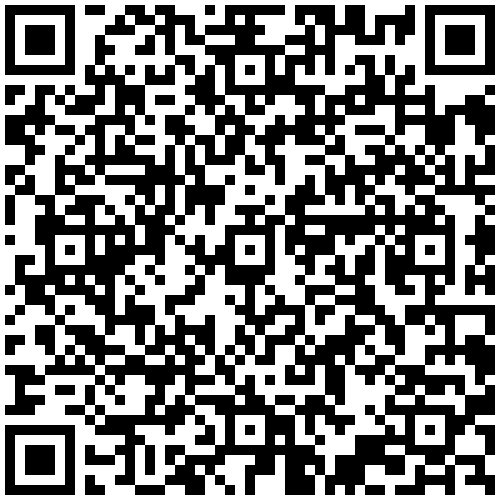
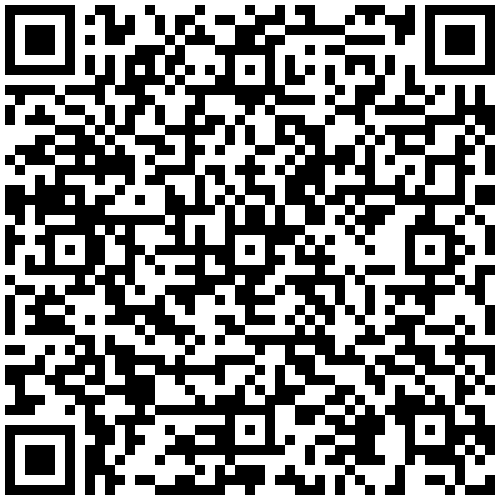
Added: Ads, Donation Page and PopUp for Donations.

diff --git a/components/PopupModalDonation.tsx b/components/PopupModalDonation.tsx
@@ -1,24 +1,29 @@
 'use client';
 
 import { useEffect, useState } from 'react';
+import Button from "./btn";
 
-import Card from './card';
+import DonationIcon from "../assets/donation-icon-black.svg"
+import Image from 'next/image';
 
 const PopupModalDonation = () => {
   const [isVisible, setIsVisible] = useState(false);
-  const [hasBeenClosed, setHasBeenClosed] = useState(false);
 
   useEffect(() => {
-    if (!hasBeenClosed) {
+    // Busca a informação no localstorage e verifica se o modal já foi exibido anteriormente
+    const hasSeenModal = localStorage.getItem('hasSeenDonationModal');
+
+    if (!hasSeenModal) {
       const timer = setTimeout(() => {
         setIsVisible(true);
-      }, 500); // Exibe o modal após 5 segundos
+      }, 10000); // Modal in 10s
 
       return () => clearTimeout(timer);
     }
-  }, [hasBeenClosed]);
+  }, []);
 
   useEffect(() => {
+    // Adiciona ou remove a classe para impedir o scroll quando o modal está visível
     if (isVisible) {
       document.body.classList.add('overflow-hidden');
     } else {
@@ -32,33 +37,33 @@ const PopupModalDonation = () => {
 
   const handleClose = () => {
     setIsVisible(false);
-    setHasBeenClosed(true);
+    localStorage.setItem('hasSeenDonationModal', 'true'); // Armazena no localstorage se o modal já foi exibido
   };
 
   return (
     <>
       {isVisible && (
-        <div
-          className="fixed inset-0 z-50 flex items-center justify-center transition-opacity duration-300 bg-black/80"
-        >
-          <div
-            className="bg-white p-6 rounded-xl shadow-lg relative w-11/12 max-w-md transform transition-transform bg duration-300 starting:scale-0"
-          >
-            <button
+        <div className="fixed inset-0 z-50 flex items-center justify-center transition-opacity duration-300 bg-black/80">
+          <div className="bg-white p-6 rounded-xl shadow-lg relative w-11/12 max-w-md transform transition-transform bg duration-300 starting:scale-0">
+          <button
               onClick={handleClose}
-              className="absolute top-2 right-2 text-gray-500 hover:text-gray-700 text-xl cursor-pointer"
+              className="absolute top-0 right-2 text-gray-500 hover:text-gray-700 text-4xl cursor-pointer"
               aria-label="Fechar modal"
             >
               &times;
             </button>
-            <h2 className="text-xl font-semibold mb-4">Gostando do nosso aplicativo? </h2>
-            <p>Considere apoiar o desenvolvimento com uma doação. Cada contribuição ajuda a manter o projeto vivo!</p>
-            <Card
-            cor='bg-pink-500'
-            titulo='Fazer doação!'
-            texto='Apoie o criador dessa ferramenta!'
-            namebtn='Doar!'
-            href=''/>
+            <div className='flex justify-center'>
+              <Image width={128} alt="Icone de doação" src={DonationIcon}/>
+            </div>
+            <div className='mt-4 mb-4'>
+              <h2 className="text-xl font-semibold mb-4">Gostando do nosso aplicativo?</h2>
+              <p className='text-justify'>
+                Considere apoiar o desenvolvimento com uma doação. Cada contribuição ajuda a manter o projeto vivo! <br/><br/> Você pode enviar através do Qr Code ou Pix Copia e Cola.
+              </p>
+            </div>
+            <div onClick={handleClose}>
+              <Button cor='bg-cyan-600' name='Fazer doação!' page='/donation'/>
+            </div>
           </div>
         </div>
       )}

diff --git a/app/inicio/page.tsx b/app/inicio/page.tsx
@@ -6,16 +6,25 @@ import Card from "../../components/card"
 export default function Home() {
   return (
     <div className="flex flex-col justify-center mb-20">
-{/* Popup de informações */}
+{/* Anuncios */}
+      <div className="bg-gray-700 p-4 m-2 h-36 rounded-xl">
+        <h1 className='text-[20px] font-semibold text-white'>Google Adsense</h1>
+        <script async src="https://pagead2.googlesyndication.com/pagead/js/adsbygoogle.js?client=ca-pub-8817598114486469" crossOrigin="anonymous"></script>
+      </div>
+{/* Anuncios */}
+
       <div className='flex flex-col gap-4 m-2 p-4 bg-zinc-800 rounded-xl'>
         <div className='flex flex-col gap-2'>
           <h1 className='text-[20px] font-semibold text-white'>Raiolaranja : Seu companheiro nas corridas!</h1>
-          <p className='text-zinc-500 text-start'>Desenvolvi esse app para ajudar a todos os corredores que desejam planejar melhor seus treinos, seja na esteira ou na rua.</p>
-          <p className='text-zinc-500 text-start'>Clique no botão abaixo e fale diretamente comigo no Instagram!</p>
+          <p className='text-zinc-400 text-start'>Desenvolvi esse app para ajudar a todos os corredores que desejam planejar melhor seus treinos, seja na esteira ou na rua.</p>
+          <p className='text-zinc-400 text-start'>Clique no botão abaixo e fale diretamente comigo no Instagram!</p>
         </div>
         <Button cor='bg-orange-500' name='Instagram' page='https://www.instagram.com/raiolaranja/' />
       </div>
 
+      <p className='flex justify-center text-white font-bold'>O O O</p>
+
+      <Card cor='bg-red-500' titulo='Está gostando do App?' texto='Considere apoiar o desenvolvimento com uma doação. Cada contribuição ajuda a manter o projeto vivo! Você pode enviar através do Qr Code ou Pix Copia e Cola.' namebtn='Ajudar!' href='donation'/>
       <Card cor='bg-red-500' titulo='Essa é para você que corre na esteira!' texto='Digite seu pace e veja qual é a velocidade correspondente em KM/H. Assim você consegue colocar a velocidade correta na sua esteira.' namebtn='Eu corro na esteira!' href='conversoes/pace-para-kmh'/>
       <Card cor='bg-red-500' titulo='Perguntas frequentes' texto='Se você tem dúvidas sobre como utilizar as ferramentas clique no botão abaixo e será redirecionado para o FAQ.' namebtn='FAQ' href='/sobre'/>
     </div>

diff --git a/app/donation/page.tsx b/app/donation/page.tsx
@@ -1,0 +1,39 @@
+"use client"
+import Image from "next/image";
+import QrCode from "../../assets/DonationPix.png";
+import DonationIcon from "../../assets/donation-icon-white.svg";
+
+export default function Donation() {
+
+    return(
+        <div className="flex flex-col justify-center mb-20">
+            <div className='flex flex-col justify-center m-2 p-4 bg-zinc-800 rounded-xl'>
+                <div className='flex justify-center m-4'>
+                    <Image width={64} alt="Icone de doação" src={DonationIcon}/>
+                </div>
+                <h1 className="text-[20px] font-semibold text-white text-center">Bem vindo a página de doação!</h1>
+            </div>
+            <div className='flex flex-col justify-center gap-2 m-2 p-4 bg-zinc-800 rounded-xl text-neutral-400'>
+                <h1 className="text-[20px] font-semibold text-white">Pix Copia e Cola</h1>
+                <p className="text-zinc-400 font-semibold">
+                    1- Copie a chave do PIX abaixo. <br/>
+                    2- Acesse o aplicativo do seu banco. <br/>
+                    3- Procure por PIX ou Transferência Via PIX. <br/>
+                    4- Escolha o valor que desejar. <br/>
+                    5- Cole a chave e faça sua doação! 
+                </p>
+                <p className="text-2xl p-2 text-center text-orange-600 bg-stone-900 rounded">c5c09f23-1eb6-4558-8586-6a34af088e32</p>
+                <h1 className="text-[20px] font-semibold text-white text-center">Muito obrigado por nos apoiar!</h1>
+            </div>
+            <div className='flex flex-col justify-center gap-4 m-2 p-4 bg-zinc-800 rounded-xl'>
+                <h1 className="text-[20px] font-semibold text-white">Pix via QR CODE</h1>
+                <p className="text-zinc-400 font-semibold">
+                    Abra o aplicativo do seu banco e utilize a câmera para fazer a leitura do Pix Qr Code.
+                </p>
+                <div className="flex justify-center">
+                    <Image className="rounded" width={250} alt="pix qr code" src={QrCode}></Image>
+                </div>
+            </div>
+        </div>
+    )
+}

diff --git a/app/calculadoras/distancia-estimada/page.tsx b/app/calculadoras/distancia-estimada/page.tsx
@@ -52,7 +52,7 @@ export default function EstimatedDistanceCalculator() {
             <input
               type="number"
               value={hours}
-              onChange={(e) => {const val = e.target.value.replace(/\D/g, '') // remove não números
+              onChange={(e) => {const val = e.target.value.replace(/\D/g, '')
                 if (val.length <= 2) setHours(val)}}
               className="w-full p-2 border rounded-md"
               placeholder="0"
@@ -64,7 +64,7 @@ export default function EstimatedDistanceCalculator() {
             <input
               type="number"
               value={minutes}
-              onChange={(e) => {const val = e.target.value.replace(/\D/g, '') // remove não números
+              onChange={(e) => {const val = e.target.value.replace(/\D/g, '')
                 if (val.length <= 2) setMinutes(val)}}
               className="w-full p-2 border rounded-md"
               placeholder="0"
@@ -76,7 +76,7 @@ export default function EstimatedDistanceCalculator() {
             <input
               type="number"
               value={seconds}
-              onChange={(e) => {const val = e.target.value.replace(/\D/g, '') // remove não números
+              onChange={(e) => {const val = e.target.value.replace(/\D/g, '')
                 if (val.length <= 2) setSeconds(val)}}
               className="w-full p-2 border rounded-md"
               placeholder="0"

diff --git a/app/calculadoras/pace-estimado/page.tsx b/app/calculadoras/pace-estimado/page.tsx
@@ -63,7 +63,7 @@ export default function PaceEstimado() {
             type="number"
             value={hours}
             maxLength={2}
-            onChange={(e) => {const val = e.target.value.replace(/\D/g, '') // remove não números
+            onChange={(e) => {const val = e.target.value.replace(/\D/g, '')
               if (val.length <= 2) setHours(val)}}
             className="w-full p-2 border rounded-md"
             placeholder="0"
@@ -76,7 +76,7 @@ export default function PaceEstimado() {
             type="number"
             value={minutes}
             maxLength={2}
-            onChange={(e) => {const val = e.target.value.replace(/\D/g, '') // remove não números
+            onChange={(e) => {const val = e.target.value.replace(/\D/g, '')
                 if (val.length <= 2) setMinutes(val)}}
             className="w-full p-2 border rounded-md"
             placeholder="0"
@@ -88,7 +88,7 @@ export default function PaceEstimado() {
           <input
             type="number"
             value={seconds}
-            onChange={(e) => {const val = e.target.value.replace(/\D/g, '') // remove não números
+            onChange={(e) => {const val = e.target.value.replace(/\D/g, '')
                 if (val.length <= 2) setSeconds(val)}}
             className="w-full p-2 border rounded-md"
             placeholder="0"

diff --git a/app/calculadoras/page.tsx b/app/calculadoras/page.tsx
@@ -1,15 +1,19 @@
 import Button from "../../components/btn-list";
-import Deactivated from "../../components/btn-deactivated";
 
 export default function PaceParaKmh() {
     return(
         <section>
+            {/* Anuncios */}
+            <div className="bg-gray-700 p-4 m-2 h-36 rounded-xl">
+                <h1 className='text-[20px] font-semibold text-white'>Google Adsense</h1>
+                <script async src="https://pagead2.googlesyndication.com/pagead/js/adsbygoogle.js?client=ca-pub-8817598114486469" crossOrigin="anonymous"></script>
+            </div>
+            {/* Anuncios */}
             <div className="flex flex-wrap mt-10 mb-20 gap-x-10 gap-y-7 justify-center">
                 <Button NameBtn="Pace Estimado" Page="calculadoras/pace-estimado"/>
                 <Button NameBtn="Tempo Estimado" Page="calculadoras/tempo-estimado"/>
                 <Button NameBtn="Distância Estimada" Page="calculadoras/distancia-estimada"/>
                 <Button NameBtn="Intensidade de Corrida" Page="calculadoras/intensidade-de-corrida"/>
-
             </div>
         </section>
     )

diff --git a/components/card.tsx b/components/card.tsx
@@ -11,7 +11,7 @@ export default function CardFaq ({titulo, texto, href, namebtn, cor} : cardBtnPr
         <div className='flex flex-col gap-4 m-2 p-4 bg-zinc-800 rounded-xl'>
             <div className='flex flex-col gap-2'>
                 <h1 className='text-[20px] font-semibold text-white'>{titulo}</h1>
-                <p className='text-zinc-500 text-start'>{texto}</p>
+                <p className='text-zinc-400 text-start'>{texto}</p>
             </div>
                 <a className={`${cor} flex justify-center items-center px-2 py-4 text-white font-semibold rounded-md active:opacity-50 transition`} 
                 href={href}>

diff --git a/app/layout.tsx b/app/layout.tsx
@@ -18,8 +18,8 @@ const geistMono = Geist_Mono({
 });
 
 export const metadata: Metadata = {
-  title: "Create Next App",
-  description: "Generated by create next app",
+  title: "Raio Laranja",
+  description: "Desenvolvido por Matheus Roger 2025.",
 };
 
 export default function RootLayout({
@@ -31,7 +31,6 @@ export default function RootLayout({
 
   return (
     <html lang="pt-br">
-      
       <body
         className={`${geistSans.variable} ${geistMono.variable} antialiased `}
       >

diff --git a/components/card-faq.tsx b/components/card-faq.tsx
@@ -8,7 +8,7 @@ export default function CardFaq ({titulo, texto} : cardBtnProps) {
         <div className='flex flex-col gap-4 m-2 p-4 bg-zinc-800 rounded-xl'>
             <div className='flex flex-col gap-2'>
                 <h1 className='text-[20px] font-semibold text-white'>{titulo}</h1>
-                <p className='text-zinc-500 text-start'>{texto}</p>
+                <p className='text-zinc-400 text-start'>{texto}</p>
             </div>
         </div>
     )

diff --git a/app/calculadoras/tempo-estimado/page.tsx b/app/calculadoras/tempo-estimado/page.tsx
@@ -16,7 +16,7 @@ export default function EstimatedTimeCalculator() {
   const parseToFloat = (val: string) => parseFloat(val.replace(',', '')) || 0
 
   const handlePaceChange = (e: React.ChangeEvent<HTMLInputElement>) => {
-    let value = e.target.value.replace(/\D/g, '') // Remove tudo que não for número
+    let value = e.target.value.replace(/\D/g, '')
 
     if (value.length > 4) value = value.slice(0, 4) // Limita no máximo 4 dígitos
 

diff --git a/app/conversoes/pace-para-kmh/page.tsx b/app/conversoes/pace-para-kmh/page.tsx
@@ -7,7 +7,7 @@ export default function PaceToSpeedCalculator() {
   const [speed, setSpeed] = useState<string | null>(null)
 
   const handlePaceChange = (e: React.ChangeEvent<HTMLInputElement>) => {
-    let value = e.target.value.replace(/\D/g, '') // Remove tudo que não for número
+    let value = e.target.value.replace(/\D/g, '')
 
     if (value.length > 4) value = value.slice(0, 4) // Limita 4 dígitos
 
